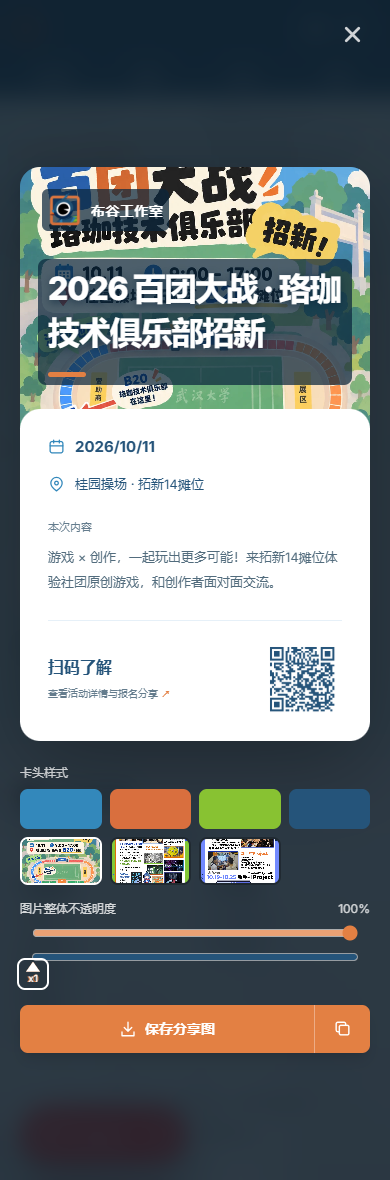
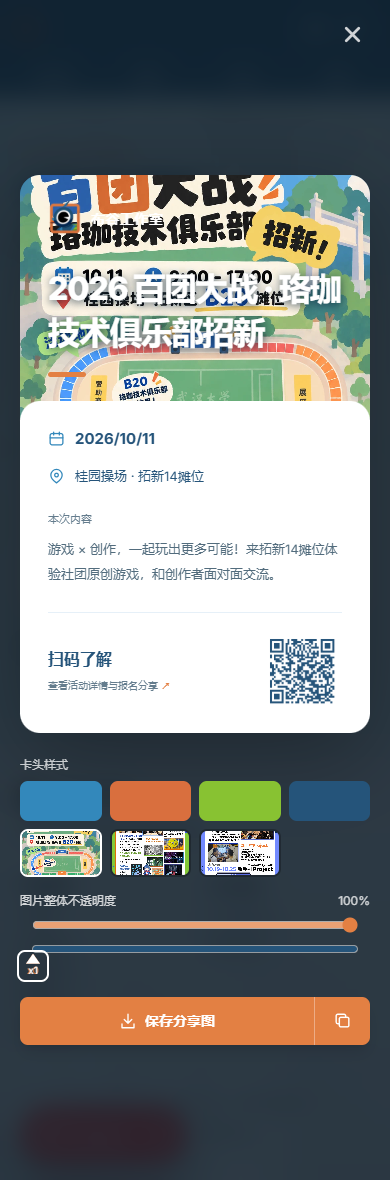
fix(share): remove added title backplates

Changed region(s): [[0.0308, 0.122, 0.9538, 0.9153]]

diff --git a/src/components/share/SharePoster.tsx b/src/components/share/SharePoster.tsx
@@ -35,7 +35,7 @@ export default function SharePoster({ data, lang, header, qr }: { data: ShareCar
     WebkitMaskImage: shareImageMask(header.maskZero, header.maskFull),
     maskImage: shareImageMask(header.maskZero, header.maskFull),
   } : undefined;
-  return <article data-share-poster className={styles.poster} data-header-color={header.kind === "color" ? header.color : "blue"} data-header-mode={imageHeader ? "image" : "color"} data-full-image={imageHeader && header.opacity === 100 && header.maskZero === 0 && header.maskFull === 0} data-card={member ? "member" : "activity"}>
+  return <article data-share-poster className={styles.poster} data-header-color={header.kind === "color" ? header.color : "blue"} data-header-mode={imageHeader ? "image" : "color"} data-card={member ? "member" : "activity"}>
     <div className={styles.hero}>
       {imageHeader ? <div className={styles.heroImageLayer} style={imageStyle}><PosterImage key={header.url} src={header.url} alt="" className={member ? `${styles.heroImage} ${styles.heroImageFit}` : styles.heroImage} /></div> : <div className={styles.pattern} aria-hidden />}
       <header className={styles.brand}>

diff --git a/src/components/share/SharePoster.module.css b/src/components/share/SharePoster.module.css
@@ -28,8 +28,6 @@
 .poster[data-card="member"][data-header-mode="image"] .hero { min-height: 252px; background: #1b3348; }
 .hero:has(.heroImage) { color: white; }
 .hero:has(.heroImage) .title { text-shadow: 0 2px 10px rgba(10, 38, 60, .8); }
-.poster[data-full-image="true"] .brand { width: fit-content; margin: -4px -6px; padding: 4px 6px; border-radius: 6px; background: rgba(10, 38, 60, .72); }
-.poster[data-full-image="true"] .activityHeading, .poster[data-full-image="true"] .identity { margin-left: -10px; margin-right: -10px; padding: 8px 10px; border-radius: 8px; background: rgba(10, 38, 60, .72); }
 .hero:has(.heroImageFit) .bio { color: rgba(255, 255, 255, .88); }
 .hero:has(.heroImageFit) .tags span { background: rgba(255, 255, 255, .16); border-color: rgba(255, 255, 255, .28); color: #fff; }
 .brand { position: relative; display: flex; align-items: center; gap: 9px; font-size: 14px; font-weight: 700; letter-spacing: .03em; }

diff --git a/docs/updates/2026-11-10-share-range.md b/docs/updates/2026-11-10-share-range.md
@@ -1,6 +1,6 @@
 # 分享卡头：完整图片到完整遮罩
 
-图片卡头现在能到达两个明确端点：整体不透明度 100%、`x0` 和 `x1` 都在 0 时显示完整图片；整体不透明度 0%，或两个三角柄都在 100 时显示完整遮罩色。中间位置仍可拖动形成渐变。移除了盖在整张图片上的固定暗色层，完整图片端点的文字使用局部底色保持可读。
+图片卡头现在能到达两个明确端点：整体不透明度 100%、`x0` 和 `x1` 都在 0 时显示完整图片；整体不透明度 0%，或两个三角柄都在 100 时显示完整遮罩色。中间位置仍可拖动形成渐变。移除了盖在整张图片上的固定暗色层。
 
 | 状态 | 桌面 | 手机 |
 | --- | --- | --- |
